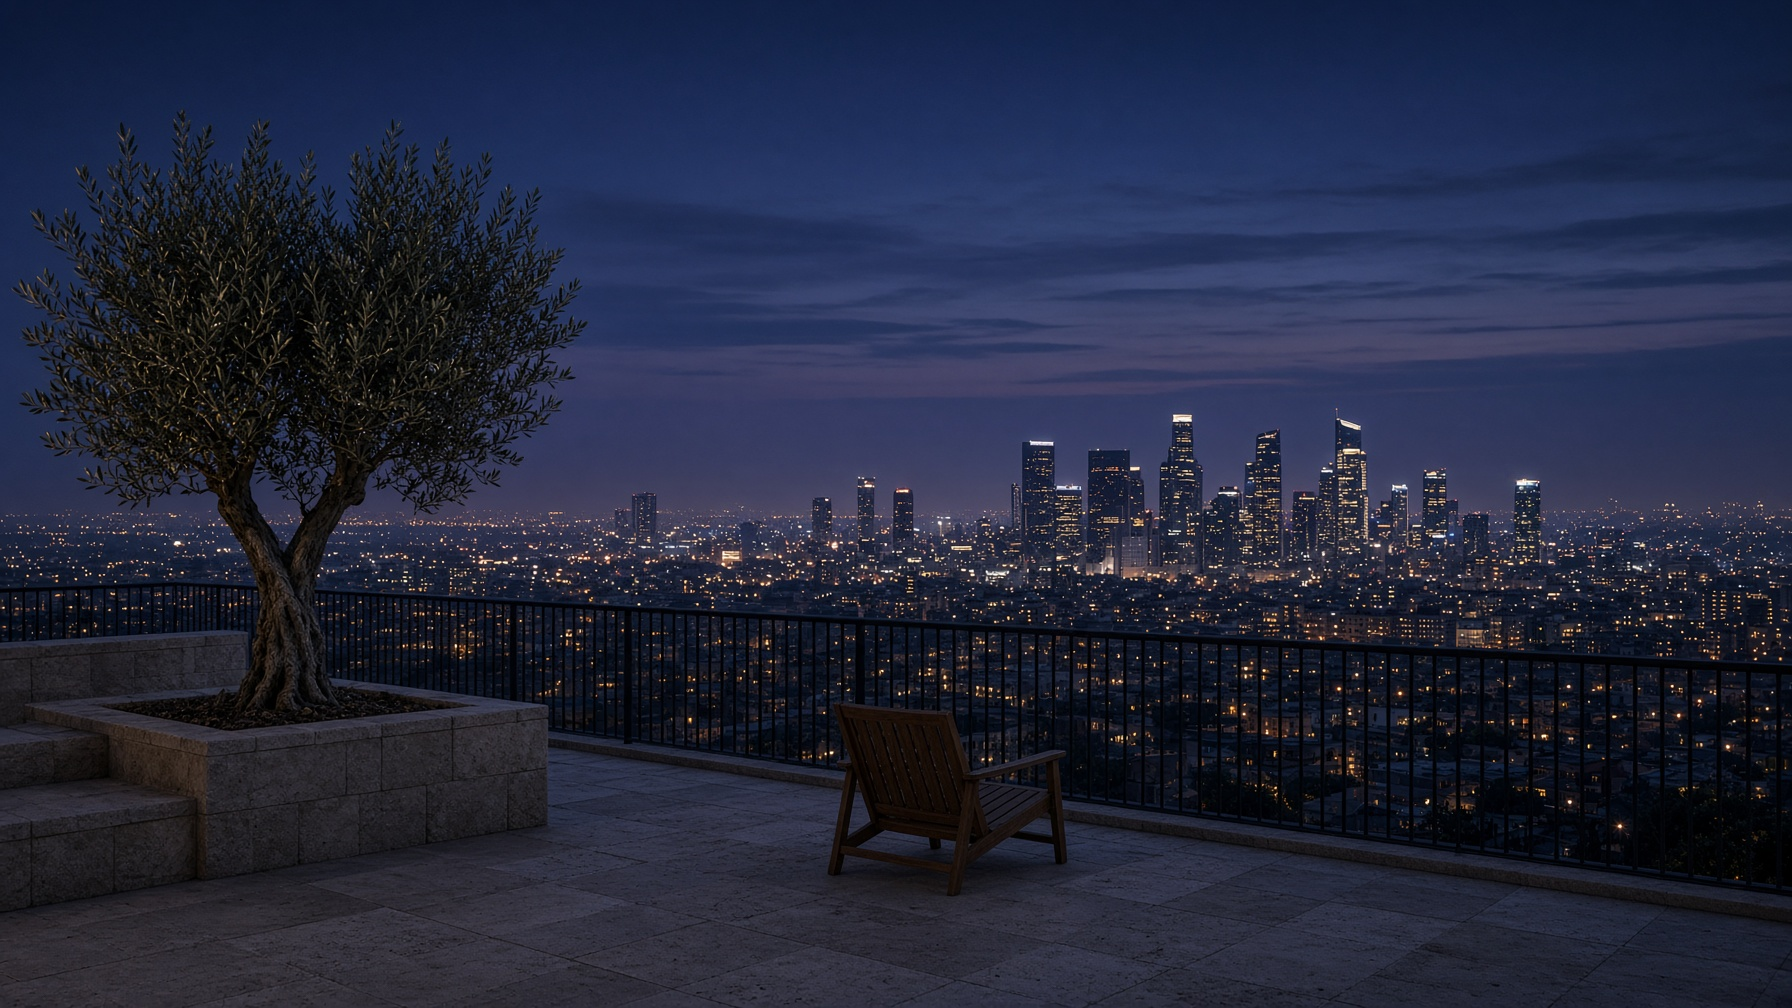
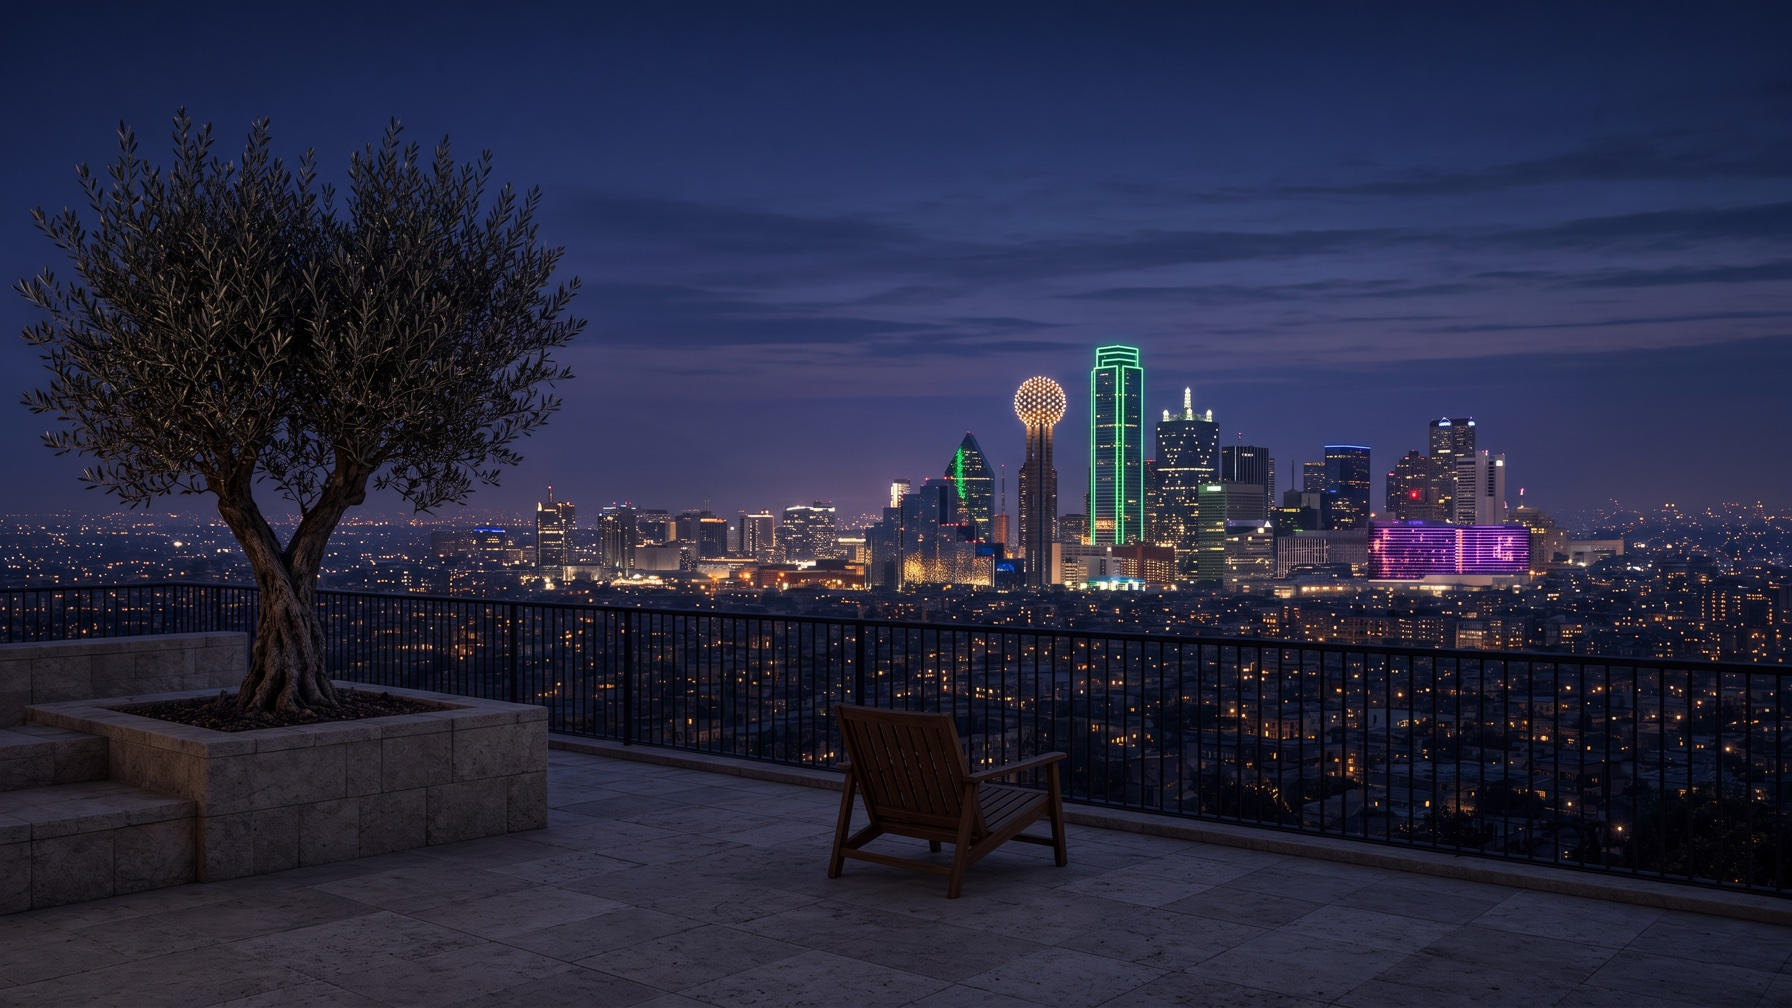
Add Kenny & Don section to About, contact sign for Don, fix hero skyline to Dallas
- About page now tells the Kenny & Don story of building the company together
- Contact page adds a "Questions or info" sign pointing to don@kdktx.com
- Homepage hero image was actually a Los Angeles skyline; replaced with a real
  Dallas night skyline (Reunion Tower, Bank of America Plaza) in the same
  terrace composition

diff --git a/about.html b/about.html
@@ -52,6 +52,14 @@
     </div>
   </div>
 </section>
+<section class="block">
+  <div class="wrap">
+    <p class="kicker">Who built the house</p>
+    <h2 class="display">Kenny &amp; Don — two people, one house.</h2>
+    <p class="body" style="max-width:640px">KDK Interests exists because two people stuck together. What started as a handshake on a handful of houses turned into years of building side by side — through renovations, hard seasons, and the slow work of trust that doesn't show up on paper.</p>
+    <p class="body" style="max-width:640px;margin-top:1rem">This site, and the companies under its roof, are what that partnership grew into: a posture that's global, a standard that's elevated, and a house built to hold more rooms as they're needed.</p>
+  </div>
+</section>
 <section class="block soft">
   <div class="wrap grid-2">
     <div class="frame"><img src="/images/interior-living.jpg" alt="Sunlit living room" /></div>

diff --git a/site/about.html b/site/about.html
@@ -52,6 +52,14 @@
     </div>
   </div>
 </section>
+<section class="block">
+  <div class="wrap">
+    <p class="kicker">Who built the house</p>
+    <h2 class="display">Kenny &amp; Don — two people, one house.</h2>
+    <p class="body" style="max-width:640px">KDK Interests exists because two people stuck together. What started as a handshake on a handful of houses turned into years of building side by side — through renovations, hard seasons, and the slow work of trust that doesn't show up on paper.</p>
+    <p class="body" style="max-width:640px;margin-top:1rem">This site, and the companies under its roof, are what that partnership grew into: a posture that's global, a standard that's elevated, and a house built to hold more rooms as they're needed.</p>
+  </div>
+</section>
 <section class="block soft">
   <div class="wrap grid-2">
     <div class="frame"><img src="/images/interior-living.jpg" alt="Sunlit living room" /></div>

diff --git a/contact.html b/contact.html
@@ -41,6 +41,8 @@
       <p class="body">Homes, stories, partnerships, the next company.</p>
       <p class="kicker" style="margin-top:2rem">Seat</p>
       <p>Dallas, Texas</p>
+      <p class="kicker" style="margin-top:1.5rem">Questions or info</p>
+      <p><a href="mailto:don@kdktx.com">don@kdktx.com</a></p>
       <p class="kicker" style="margin-top:1.5rem">KDK TX</p>
       <p><a href="mailto:paige@kdktx.com">paige@kdktx.com</a></p>
       <p class="kicker" style="margin-top:1.5rem">Live site</p>

diff --git a/site/contact.html b/site/contact.html
@@ -41,6 +41,8 @@
       <p class="body">Homes, stories, partnerships, the next company.</p>
       <p class="kicker" style="margin-top:2rem">Seat</p>
       <p>Dallas, Texas</p>
+      <p class="kicker" style="margin-top:1.5rem">Questions or info</p>
+      <p><a href="mailto:don@kdktx.com">don@kdktx.com</a></p>
       <p class="kicker" style="margin-top:1.5rem">KDK TX</p>
       <p><a href="mailto:paige@kdktx.com">paige@kdktx.com</a></p>
       <p class="kicker" style="margin-top:1.5rem">Live site</p>
